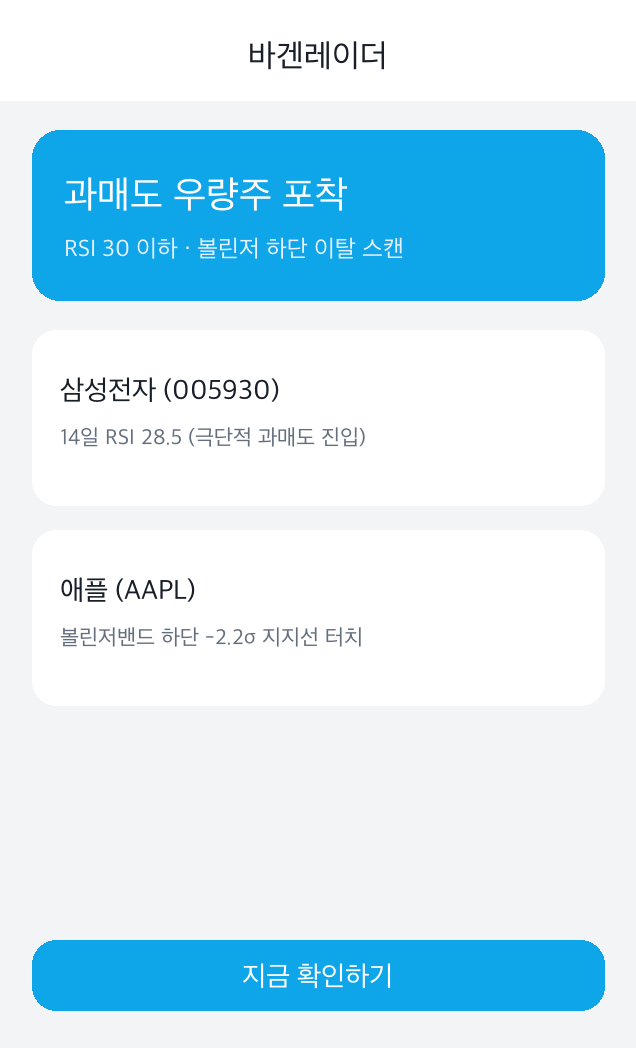
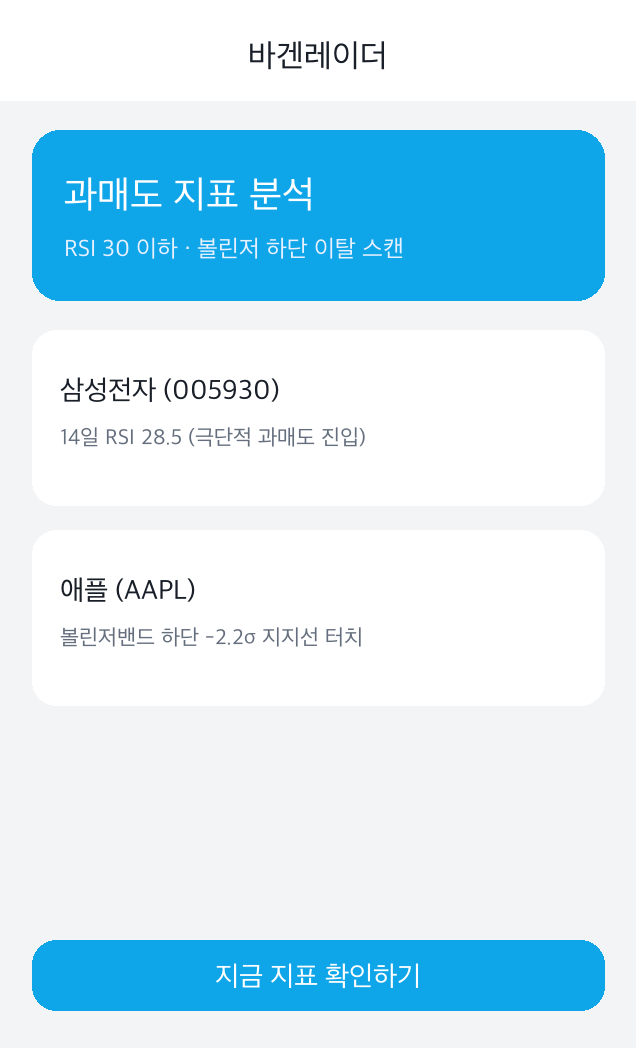
fix(bargain-radar): align strictly with Toss Service Open Policy (disclaimers, neutral technical indicators, clean assets)

Changed region(s): [[0.2689, 0.1527, 0.5377, 0.2137], [0.3286, 0.916, 0.6572, 0.9466]]

diff --git a/apps/bargain-radar/BargainRadarApp.tsx b/apps/bargain-radar/BargainRadarApp.tsx
@@ -110,10 +110,10 @@ export const BargainRadarApp: React.FC<BargainRadarAppProps> = ({ onBack }) => {
   return (
     <div className="min-h-screen bg-toss-bg pb-24">
       <TossHeader
-        title="AI 바겐세일 과매도 레이더"
-        subtitle="RSI 과매도 & 6축 저평가 우량주 탐색기"
+        title="바겐레이더"
+        subtitle="RSI 과매도 & 6축 퀀트 보조지표 분석"
         onBack={onBack}
-        rightAction={<TossBadge variant="red">실시간 스캔</TossBadge>}
+        rightAction={<TossBadge variant="blue">보조지표 통계</TossBadge>}
       />
 
       <div className="p-4 space-y-4 max-w-lg mx-auto">
@@ -121,16 +121,16 @@ export const BargainRadarApp: React.FC<BargainRadarAppProps> = ({ onBack }) => {
         <TossCard padding="lg" className="bg-gradient-to-br from-slate-900 via-blue-950 to-slate-900 text-white">
           <div className="flex items-center justify-between">
             <span className="text-xs text-blue-300 font-bold flex items-center gap-1">
-              <Activity className="w-3.5 h-3.5" /> Hexa Desk 분석 엔진 탑재
+              <Activity className="w-3.5 h-3.5" /> 6축 퀀트 보조지표 모델 탑재
             </span>
             <span className="text-[11px] bg-red-500/20 text-red-300 px-2 py-0.5 rounded-full border border-red-400/30 font-semibold">
-              RSI 35 이하 집중 발굴
+              RSI 35 이하 과매도 구간
             </span>
           </div>
 
-          <h3 className="text-2xl font-black mt-2">오늘의 바겐세일 우량주</h3>
+          <h3 className="text-2xl font-black mt-2">과매도 구간 우량주 지표</h3>
           <p className="text-xs text-blue-100 mt-1 leading-relaxed">
-            통계적으로 하락이 과도하여 반등 확률이 높은 종목을 6축 알고리즘으로 엄선했습니다.
+            14일 RSI 및 볼린저밴드 기준 기술적 과매도 구간에 진입한 주요 종목 통계입니다.
           </p>
 
           {/* Market Toggle */}
@@ -265,20 +265,20 @@ export const BargainRadarApp: React.FC<BargainRadarAppProps> = ({ onBack }) => {
               </div>
 
               <div className="bg-blue-50 border border-blue-200 p-4 rounded-2xl">
-                <span className="text-xs text-toss-blue font-bold block mb-1">AI 반등 분석 결론</span>
+                <span className="text-xs text-toss-blue font-bold block mb-1">기술적 지표 분석 의견</span>
                 <p className="text-xs text-gray-800 leading-relaxed font-medium">{selectedStock.thesis}</p>
               </div>
 
               <div className="grid grid-cols-2 gap-2 text-xs">
                 <div className="bg-toss-bg p-3 rounded-xl">
-                  <span className="text-toss-muted block mb-0.5">1차 반등 목표가</span>
+                  <span className="text-toss-muted block mb-0.5">기술적 저항 구간</span>
                   <span className="font-extrabold text-emerald-600 text-sm">
                     {selectedStock.reboundTarget}
                   </span>
                 </div>
                 <div className="bg-toss-bg p-3 rounded-xl">
-                  <span className="text-toss-muted block mb-0.5">손절 마지노선 지지선</span>
-                  <span className="font-extrabold text-toss-red text-sm">
+                  <span className="text-toss-muted block mb-0.5">기술적 지지 구간</span>
+                  <span className="font-extrabold text-toss-blue text-sm">
                     {selectedStock.supportLine}
                   </span>
                 </div>
@@ -306,7 +306,7 @@ export const BargainRadarApp: React.FC<BargainRadarAppProps> = ({ onBack }) => {
 
       <RewardedAdModal
         isOpen={adModalOpen}
-        rewardTitle="오늘의 AI 과매도 줍줍 레이더 전체 종목 잠금 해제"
+        rewardTitle="과매도 우량주 퀀트 지표 전체 종목 열람"
         onClose={() => setAdModalOpen(false)}
         onRewarded={() => {
           setUnlockedAll(true);
@@ -316,7 +316,7 @@ export const BargainRadarApp: React.FC<BargainRadarAppProps> = ({ onBack }) => {
 
       <TossPayModal
         isOpen={payModalOpen}
-        productTitle="AI 바겐세일 줍줍 레이더 VIP 무제한 패스"
+        productTitle="6축 퀀트 보조지표 리포트 무제한 패스"
         price={990}
         onClose={() => setPayModalOpen(false)}
         onSuccess={() => {

diff --git a/apps/portal/PortalHub.tsx b/apps/portal/PortalHub.tsx
@@ -86,10 +86,10 @@ const APPS: MiniAppMeta[] = [
   },
   {
     id: "bargain-radar",
-    title: "AI 바겐세일 과매도 줍줍 레이더",
-    category: "토스증권 퀀트",
-    badge: { text: "Hexa Desk 탑재", variant: "red" },
-    desc: "RSI 35 이하, 볼린저 하단 이탈 저평가 우량주 실시간 스캔",
+    title: "바겐레이더 (과매도 퀀트)",
+    category: "투자/금융 퀀트",
+    badge: { text: "6축 퀀트 모델", variant: "red" },
+    desc: "RSI 35 이하, 볼린저 하단 이탈 과매도 우량주 지표 분석",
     iconBg: "bg-rose-600",
     icon: <TrendingDown className="w-5 h-5 text-white" />,
     revenueType: "보상형 광고 + 6축 리포트 990원",
@@ -139,13 +139,13 @@ const APPS: MiniAppMeta[] = [
 export const PortalHub: React.FC<PortalHubProps> = ({ onSelectApp }) => {
   const [filterCat, setFilterCat] = useState<string>("ALL");
 
-  const categories = ["ALL", "행운/복권", "직장인/재테크", "토스증권 퀀트", "바이럴/심리"];
+  const categories = ["ALL", "행운/복권", "직장인/재테크", "투자/금융 퀀트", "바이럴/심리"];
 
   const filteredApps = APPS.filter((app) => {
     if (filterCat === "ALL") return true;
     if (filterCat === "행운/복권") return app.category === "행운/복권" || app.category === "운세/타로";
     if (filterCat === "직장인/재테크") return app.category === "직장인/재테크" || app.category === "공공복지/환급" || app.category === "짠테크/가계부";
-    if (filterCat === "토스증권 퀀트") return app.category === "토스증권 퀀트" || app.category === "배당/패시브인컴" || app.category === "기술적 분석";
+    if (filterCat === "투자/금융 퀀트") return app.category === "투자/금융 퀀트" || app.category === "배당/패시브인컴" || app.category === "기술적 분석";
     if (filterCat === "바이럴/심리") return app.category === "바이럴/심리" || app.category === "운세/타로";
     return true;
   });

diff --git a/apps/bargain-radar/docs/store-info.v1.0.0.md b/apps/bargain-radar/docs/store-info.v1.0.0.md
@@ -11,7 +11,7 @@
 
 | 항목 | 입력 값 | 검증 기준 |
 |---|---|---|
-| **어떤 앱을 만들고 싶나요?** | `토스 증권 데스크 6축 퀀트 엔진 기반 과매도 저평가 우량주 발굴 레이더` | 목적 명확화 |
+| **어떤 앱을 만들고 싶나요?** | `RSI와 볼린저밴드 등 기술적 보조지표 기반 과매도 우량주 통계 분석기` | 목적 명확화 (공식 사칭 및 리딩 소지 원천 배제) |
 | **앱 이름** | `바겐레이더` | 5자 (10자 이내) |
 | **appName** | `bargain-radar` | 고유 영문 ID (`intoss://bargain-radar`) |
 | **앱 유형** | `비게임` | 정책 분류 |
@@ -23,7 +23,7 @@
 | 항목 | 입력 값 |
 |---|---|
 | **앱 번들** | `apps/bargain-radar/bargain-radar.ait` 업로드 |
-| **출시 노트** | `밸류에이션 바닥권에 진입하고 기술적 과매도 신호가 발생한 우량주를 6축 퀀트 모델로 포착합니다.` |
+| **출시 노트** | `RSI, 볼린저밴드 등 주요 기술적 보조지표 통계를 기반으로 과매도 구간 종목의 통계 데이터를 제공합니다.` |
 | **메모** | `v1.0.0 최초 출시 번들` |
 
 ---
@@ -34,19 +34,21 @@
 |---|---|---|
 | **한국어 앱 이름** | `바겐레이더` | 5자 (최대 10자 통과) |
 | **영어 앱 이름** | `BargainRadar` | 12자 (최대 15자 통과) |
-| **부제** | `퀀트 기반 과매도 우량주 발굴` | 15자 (최대 20자 통과) |
+| **부제** | `퀀트 보조지표 통계 분석기` | 14자 (최대 20자 통과) |
 | **appName** | `bargain-radar` | 고유 ID (수정 불가) |
 | **사용 연령** | `전체 이용가` | 금융/투자 정보 |
 | **고객문의 이메일** | `tgkim.dev@gmail.com` | 담당자 이메일 |
 
 ### 상세 설명
 ```text
-시장의 과도한 공포로 일시적 저평가 영역에 진입한 국내/해외 우량주를 실시간 퀀트 알고리즘으로 발굴합니다.
+시장의 과도한 공포로 일시적 저평가 영역에 진입한 국내/해외 우량주를 퀀트 지표 알고리즘으로 분석합니다.
 
 [주요 화면 및 사용자 경험]
-1. 과매도 랭킹: 14일 RSI 지표, 볼린저밴드 하단 이탈 여부를 스캔하여 최상위 퀀트 스코어 종목 정렬.
+1. 과매도 지표 랭킹: 14일 RSI 지표, 볼린저밴드 하단 이탈 여부를 스캔하여 최상위 퀀트 스코어 종목 정렬.
 2. 6축 퀀트 진단: 밸류에이션, 모멘텀, 수급, 실적, 배당, 안전성 6가지 축을 레이더 차트 형태로 진단.
-3. 기술적 반등 목표가: 강력한 지지선 구간과 1차 반등 목표 수익률 구간을 데이터 기반으로 제시.
+3. 기술적 지표 분석표: 기술적 지지 구간 및 저항 구간 통계 데이터를 한눈에 확인.
+
+※ 본 서비스는 특정 종목의 매수·매도를 추천하지 않으며, 단순 기술적 지표 통계 참고용 시뮬레이션입니다.
 ```
 
 ---
@@ -56,9 +58,9 @@
 - **카테고리**: `금융` > `투자/증권` (또는 `재테크`)
 - **앱 로고 (600 × 600px)**: `apps/bargain-radar/assets/logo_600x600.png`
 - **미리보기 및 스크린샷 (636 × 1048px)**:
-  1. `apps/bargain-radar/assets/screenshot_1.png` (과매도 우량주 랭킹)
+  1. `apps/bargain-radar/assets/screenshot_1.png` (과매도 지표 랭킹)
   2. `apps/bargain-radar/assets/screenshot_2.png` (6축 퀀트 정밀 진단)
-  3. `apps/bargain-radar/assets/screenshot_3.png` (반등 목표가 및 투자 리포트)
+  3. `apps/bargain-radar/assets/screenshot_3.png` (기술적 지표 분석표)
 
 ---
 
@@ -67,9 +69,9 @@
 
 | 순번 | 한국어 기능 이름 | 공백 제외 | 영어 기능 이름 (추천: 초안전) | 영문 공백 제외 | 영어 기능 이름 (대안) | 검증 결과 |
 |:---:|---|:---:|---|:---:|---|:---:|
-| **기능 1** | `과매도 우량주 포착` | **8자** | `Oversold AI` | **10자** | `Stock Radar` | ✅ 규격 준수 (10자 이내) |
+| **기능 1** | `과매도 지표 분석` | **7자** | `RSI Scan` | **7자** | `Stock Radar` | ✅ 규격 준수 (10자 이내) |
 | **기능 2** | `6축 퀀트 정밀 진단` | **8자** | `Quant 6D` | **7자** | `Hexa Quant` | ✅ 규격 준수 (10자 이내) |
-| **기능 3** | `기술적 반등 목표가` | **8자** | `Target Win` | **9자** | `Target Calc` | ✅ 규격 준수 (10자 이내) |
+| **기능 3** | `기술적 지표 분석표` | **8자** | `Chart Data` | **9자** | `Target Calc` | ✅ 규격 준수 (10자 이내) |
 
 ---
 
@@ -87,5 +89,5 @@
 
 - **v1.0.0 (2026-10-10)**:
   - RSI 30 이하 과매도 및 볼린저밴드 -2.0σ 하단 이탈 종목 실시간 선별
-  - 토스 데스크 6축 헥사곤 퀀트 스코어링 알고리즘 연동
-  - 지지선 기반 손익비 및 기술적 반등 목표가 분석 리포트 구현
+  - 6축 헥사곤 퀀트 보조지표 분석 알고리즘 탑재
+  - 기술적 지지/저항 구간 통계 지표 분석표 및 투자 면책 조항 구현
